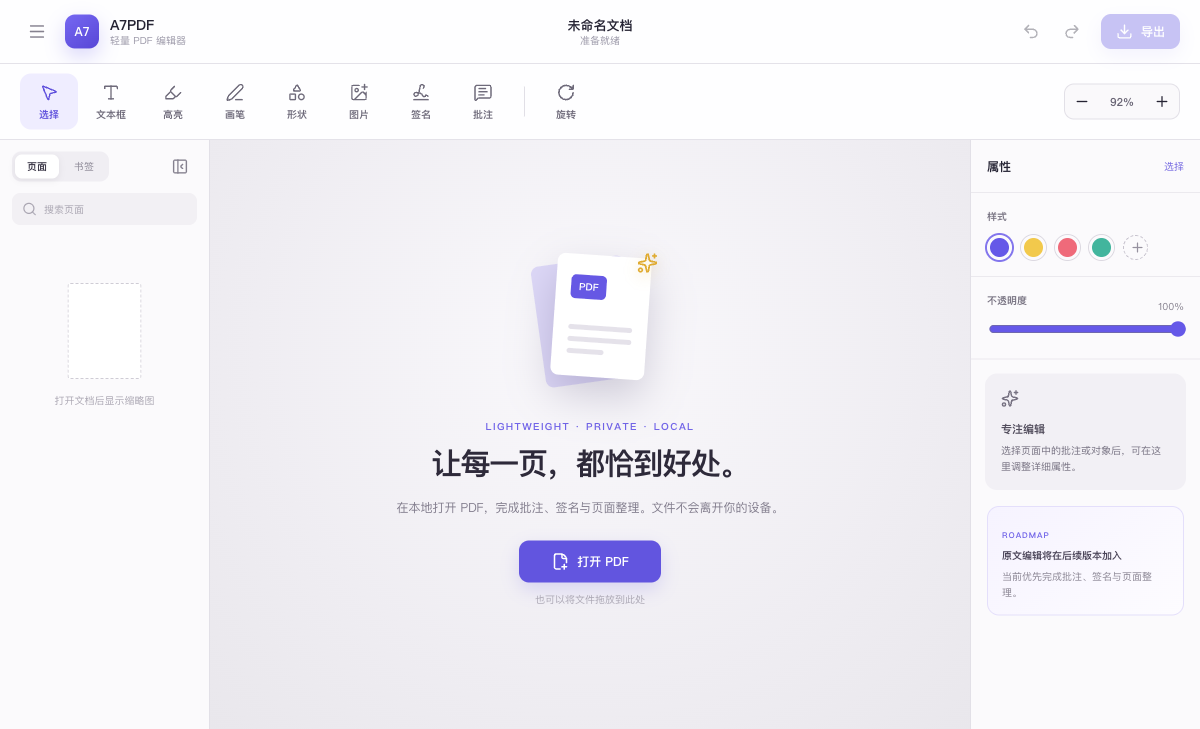
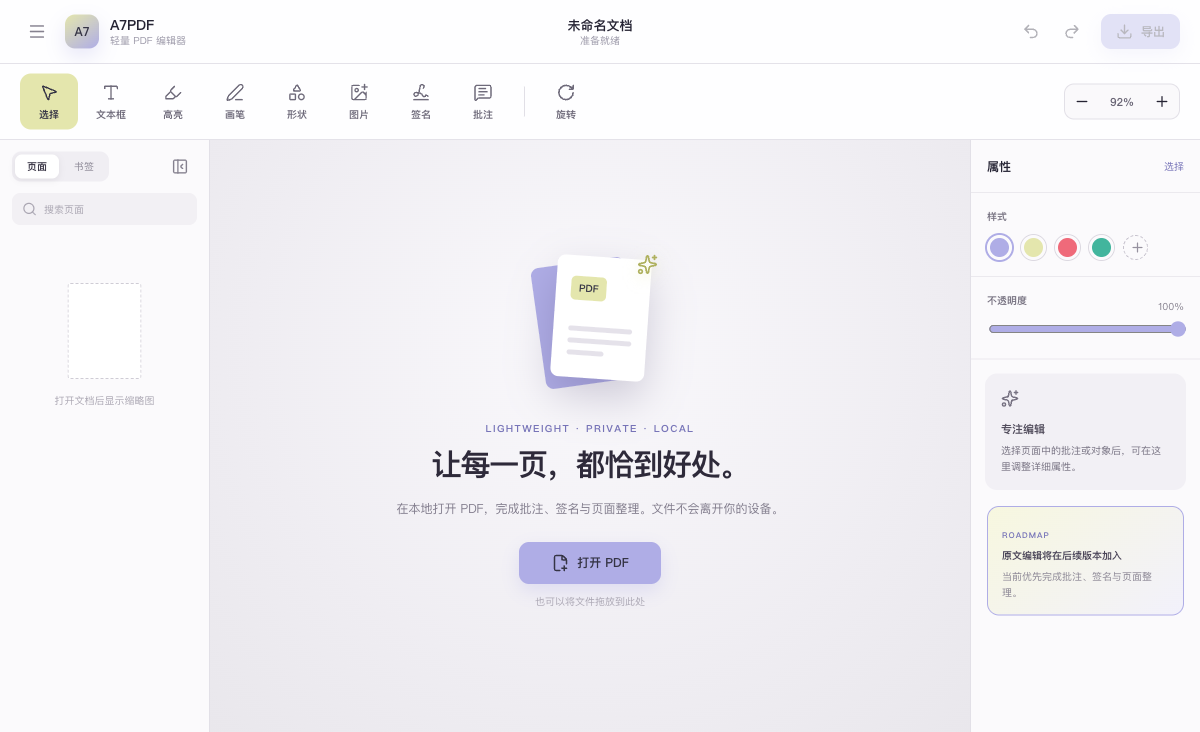
Fix drag cancellation and refresh theme

diff --git a/src/App.css b/src/App.css
@@ -1,4 +1,7 @@
 :root {
+  --theme-lavender: #AFADE6;
+  --theme-yellow: #E4E6AD;
+  --theme-ink: #353445;
   font-family: Inter, "SF Pro Text", "PingFang SC", "Microsoft YaHei", -apple-system, BlinkMacSystemFont, "Segoe UI", sans-serif;
   color: #252333;
   background: #ebeaf0;
@@ -26,8 +29,8 @@ button { color: inherit; }
 .brand { width: 300px; gap: 11px; }
 .brand-mark {
   width: 34px; height: 34px; display: grid; place-items: center;
-  border-radius: 10px; color: white; font-weight: 800; font-size: 12px;
-  background: linear-gradient(145deg, #7668f2, #5746d6); box-shadow: 0 8px 20px #6558e83d;
+  border-radius: 10px; color: var(--theme-ink); font-weight: 800; font-size: 12px;
+  background: linear-gradient(145deg, var(--theme-yellow), var(--theme-lavender)); box-shadow: 0 8px 20px #afaDE64a;
 }
 .brand div:last-child { display: flex; flex-direction: column; line-height: 1.25; }
 .brand strong { font-size: 14px; letter-spacing: -.01em; }
@@ -45,8 +48,8 @@ button { color: inherit; }
 .quiet { color: #85818f; }
 .export-button, .primary-button {
   display: flex; align-items: center; justify-content: center; gap: 8px;
-  border: 0; border-radius: 10px; background: #6255df; color: white;
-  font-weight: 700; cursor: pointer; box-shadow: 0 7px 18px #6255df30;
+  border: 0; border-radius: 10px; background: var(--theme-lavender); color: var(--theme-ink);
+  font-weight: 700; cursor: pointer; box-shadow: 0 7px 18px #afaDE64d;
 }
 .export-button { height: 35px; padding: 0 15px; margin-left: 5px; font-size: 12px; }
 
@@ -58,7 +61,7 @@ button { color: inherit; }
   background: transparent; color: #6e6a7a; cursor: pointer; font-size: 10px; font-weight: 600;
 }
 .tool-button:hover { background: #f2f0f6; color: #403b50; }
-.tool-button.active { background: #efedff; color: #5f50dc; }
+.tool-button.active { background: var(--theme-yellow); color: var(--theme-ink); }
 .toolbar-divider { width: 1px; height: 30px; margin: 0 6px; background: #e1dfe6; }
 .toolbar-spacer { flex: 1; }
 .zoom-control { height: 36px; gap: 3px; padding: 0 3px; border: 1px solid #e2e0e7; border-radius: 10px; background: #faf9fb; }
@@ -77,7 +80,7 @@ button { color: inherit; }
 .thumbnails { height: calc(100% - 95px); padding: 5px 14px 28px; overflow: auto; }
 .thumbnail { width: 100%; display: flex; flex-direction: column; align-items: center; gap: 6px; padding: 8px; margin-bottom: 10px; border: 1px solid transparent; border-radius: 11px; background: transparent; cursor: pointer; }
 .thumbnail:hover { background: #f4f2f6; }
-.thumbnail.selected { border-color: #7769ee; background: #f0eeff; }
+.thumbnail.selected { border-color: var(--theme-lavender); background: #f4f3fc; }
 .thumbnail-paper { max-width: 132px; min-height: 120px; display: grid; place-items: center; overflow: hidden; background: white; box-shadow: 0 4px 13px #302a3c1a; }
 .thumbnail canvas { max-width: 132px; height: auto !important; display: block; }
 .thumbnail span { font-size: 10px; font-weight: 600; color: #827e8b; }
@@ -88,13 +91,13 @@ button { color: inherit; }
 .empty-document { max-width: 520px; padding: 34px; text-align: center; }
 .empty-art { width: 150px; height: 142px; position: relative; margin: 0 auto 25px; }
 .paper-back, .paper-front { position: absolute; width: 94px; height: 122px; border-radius: 8px; }
-.paper-back { left: 23px; top: 8px; transform: rotate(-8deg); background: #ddd8f7; }
+.paper-back { left: 23px; top: 8px; transform: rotate(-8deg); background: var(--theme-lavender); }
 .paper-front { left: 39px; top: 3px; padding: 19px 15px; transform: rotate(4deg); background: #fff; box-shadow: 0 18px 42px #453b6840; text-align: left; }
-.paper-badge { display: inline-block; margin-bottom: 19px; padding: 5px 8px; border-radius: 5px; background: #6658e4; color: white; font-size: 10px; font-weight: 800; }
+.paper-badge { display: inline-block; margin-bottom: 19px; padding: 5px 8px; border-radius: 5px; background: var(--theme-yellow); color: var(--theme-ink); font-size: 10px; font-weight: 800; }
 .paper-front i { display: block; height: 5px; margin: 7px 0; border-radius: 4px; background: #e5e2ea; }
 .paper-front i.short { width: 58%; }
-.sparkle { position: absolute; right: 7px; top: 0; color: #e0ab31; filter: drop-shadow(0 4px 7px #d3a1244f); }
-.eyebrow { margin: 0 0 8px; color: #7164e8; font-size: 10px; font-weight: 800; letter-spacing: .14em; }
+.sparkle { position: absolute; right: 7px; top: 0; color: #afb15f; filter: drop-shadow(0 4px 7px #e4e6ad80); }
+.eyebrow { margin: 0 0 8px; color: #7774b8; font-size: 10px; font-weight: 800; letter-spacing: .14em; }
 .empty-document h1 { margin: 0; color: #2e2a3a; font-size: 30px; letter-spacing: -.04em; }
 .empty-copy { max-width: 390px; margin: 13px auto 22px; color: #817c8c; font-size: 12px; line-height: 1.8; }
 .primary-button { min-width: 142px; height: 42px; margin: auto; font-size: 12px; }
@@ -106,35 +109,35 @@ button { color: inherit; }
 .page-navigation span { min-width: 70px; text-align: center; color: #7e7989; font-size: 11px; }
 .page-navigation strong { color: #3a3547; }
 .loading-card { display: flex; align-items: center; gap: 11px; padding: 16px 20px; border-radius: 13px; background: white; color: #746f80; font-size: 12px; box-shadow: 0 12px 35px #342d461c; }
-.spinner { animation: spin 1s linear infinite; color: #6658e4; }
+.spinner { animation: spin 1s linear infinite; color: #7774b8; }
 @keyframes spin { to { transform: rotate(360deg); } }
 .error-toast { position: absolute; bottom: 22px; padding: 10px 15px; border-radius: 9px; background: #3a3345; color: white; font-size: 11px; box-shadow: 0 10px 30px #211c2c33; }
 
 .properties-header { height: 53px; padding: 0 16px; display: flex; align-items: center; justify-content: space-between; border-bottom: 1px solid #ebe9ee; }
 .properties-header span { font-size: 12px; font-weight: 700; }
-.properties-header small { color: #7569e1; font-size: 10px; }
+.properties-header small { color: #7774b8; font-size: 10px; }
 .property-section { padding: 16px; border-bottom: 1px solid #ebe9ee; }
 .property-section label { display: block; margin-bottom: 12px; color: #777281; font-size: 10px; font-weight: 700; }
 .color-row { display: flex; gap: 9px; }
 .color-swatch, .add-color { width: 25px; height: 25px; border: 3px solid #fbfafc; border-radius: 50%; cursor: pointer; box-shadow: 0 0 0 1px #dcd9e1; }
-.color-swatch.selected { box-shadow: 0 0 0 2px #8376ed; }
+.color-swatch.selected { box-shadow: 0 0 0 2px var(--theme-lavender); }
 .add-color { display: grid; place-items: center; border: 1px dashed #c8c4cf; background: transparent; color: #96919f; box-shadow: none; }
 .property-line { display: flex; justify-content: space-between; align-items: center; }
 .property-line span { color: #807b89; font-size: 10px; }
-.property-section input[type="range"] { width: 100%; accent-color: #6558e8; }
+.property-section input[type="range"] { width: 100%; accent-color: var(--theme-lavender); }
 .muted-section { margin: 14px; border: 0; border-radius: 12px; background: #f2f0f5; color: #777282; }
 .muted-section strong { display: block; margin-top: 8px; color: #514c5c; font-size: 11px; }
 .muted-section p, .roadmap-note p { margin: 6px 0 0; font-size: 10px; line-height: 1.6; }
-.roadmap-note { margin: 16px; padding: 14px; border: 1px solid #e4dffb; border-radius: 12px; background: linear-gradient(140deg, #f6f3ff, #fdfcff); }
-.roadmap-note span { color: #7164e8; font-size: 8px; font-weight: 800; letter-spacing: .12em; }
+.roadmap-note { margin: 16px; padding: 14px; border: 1px solid var(--theme-lavender); border-radius: 12px; background: linear-gradient(140deg, #f7f7df, #f2f1fb); }
+.roadmap-note span { color: #7774b8; font-size: 8px; font-weight: 800; letter-spacing: .12em; }
 .roadmap-note strong { display: block; margin-top: 5px; color: #4a4458; font-size: 10px; }
 .roadmap-note p { color: #8b8694; }
 
 .native-drop-overlay {
-  position: fixed; inset: 16px; z-index: 50; display: flex; flex-direction: column;
-  align-items: center; justify-content: center; gap: 8px; border: 2px dashed #7567eb;
-  border-radius: 18px; background: rgba(246, 244, 255, .9); color: #5f50dc;
-  box-shadow: inset 0 0 0 6px rgba(255,255,255,.65), 0 18px 60px #362b7a2b;
+  position: absolute; inset: 20px; z-index: 20; display: flex; flex-direction: column;
+  align-items: center; justify-content: center; gap: 8px; border: 2px dashed var(--theme-lavender);
+  border-radius: 18px; background: rgba(244, 244, 226, .9); color: var(--theme-ink);
+  box-shadow: inset 0 0 0 6px rgba(255,255,255,.65), 0 18px 60px #afaDE633;
   backdrop-filter: blur(14px); pointer-events: none;
 }
 .native-drop-overlay strong { margin-top: 4px; font-size: 17px; }

diff --git a/src/App.tsx b/src/App.tsx
@@ -171,12 +171,10 @@ function App() {
           setIsNativeDragging(true);
           return;
         }
-        if (event.payload.type === "leave") {
-          setIsNativeDragging(false);
-          return;
-        }
 
         setIsNativeDragging(false);
+        if (event.payload.type !== "drop") return;
+
         const pdfPath = event.payload.paths.find((path) => path.toLowerCase().endsWith(".pdf"));
         if (!pdfPath) {
           setError("请拖入一个 PDF 文件。");
@@ -245,11 +243,17 @@ function App() {
 
   return (
     <main
-      className={`app-shell ${isNativeDragging ? "native-dragging" : ""}`}
-      onDragOver={(event) => event.preventDefault()}
+      className="app-shell"
+      onDragOver={(event) => {
+        const tauriWindow = window as Window & { __TAURI_INTERNALS__?: unknown };
+        if (!tauriWindow.__TAURI_INTERNALS__) event.preventDefault();
+      }}
       onDrop={(event) => {
-        event.preventDefault();
-        openFile(event.dataTransfer.files[0]);
+        const tauriWindow = window as Window & { __TAURI_INTERNALS__?: unknown };
+        if (!tauriWindow.__TAURI_INTERNALS__) {
+          event.preventDefault();
+          openFile(event.dataTransfer.files[0]);
+        }
       }}
     >
       <input
@@ -359,6 +363,13 @@ function App() {
             <EmptyDocument onOpen={() => inputRef.current?.click()} />
           )}
           {error && <div className="error-toast">{error}</div>}
+          {isNativeDragging && (
+            <div className="native-drop-overlay">
+              <FilePlus2 size={34} />
+              <strong>松开以打开 PDF</strong>
+              <span>文件只会在本地处理</span>
+            </div>
+          )}
         </section>
 
         <aside className="sidebar properties-panel">
@@ -369,8 +380,8 @@ function App() {
           <section className="property-section">
             <label>样式</label>
             <div className="color-row">
-              <button className="color-swatch selected" style={{ background: "#6558e8" }} />
-              <button className="color-swatch" style={{ background: "#f2c94c" }} />
+              <button className="color-swatch selected" style={{ background: "#AFADE6" }} />
+              <button className="color-swatch" style={{ background: "#E4E6AD" }} />
               <button className="color-swatch" style={{ background: "#ef6a7a" }} />
               <button className="color-swatch" style={{ background: "#42b59d" }} />
               <button className="add-color"><Plus size={15} /></button>
@@ -392,13 +403,6 @@ function App() {
           </div>
         </aside>
       </div>
-      {isNativeDragging && (
-        <div className="native-drop-overlay">
-          <FilePlus2 size={34} />
-          <strong>松开以打开 PDF</strong>
-          <span>文件只会在本地处理</span>
-        </div>
-      )}
     </main>
   );
 }

diff --git a/index.html b/index.html
@@ -4,7 +4,7 @@
     <meta charset="UTF-8" />
     <link rel="icon" type="image/svg+xml" href="/vite.svg" />
     <meta name="viewport" content="width=device-width, initial-scale=1.0" />
-    <meta name="theme-color" content="#6255df" />
+    <meta name="theme-color" content="#AFADE6" />
     <meta name="description" content="A7PDF — 漂亮、轻量、默认离线的 PDF 编辑器" />
     <title>A7PDF</title>
   </head>
